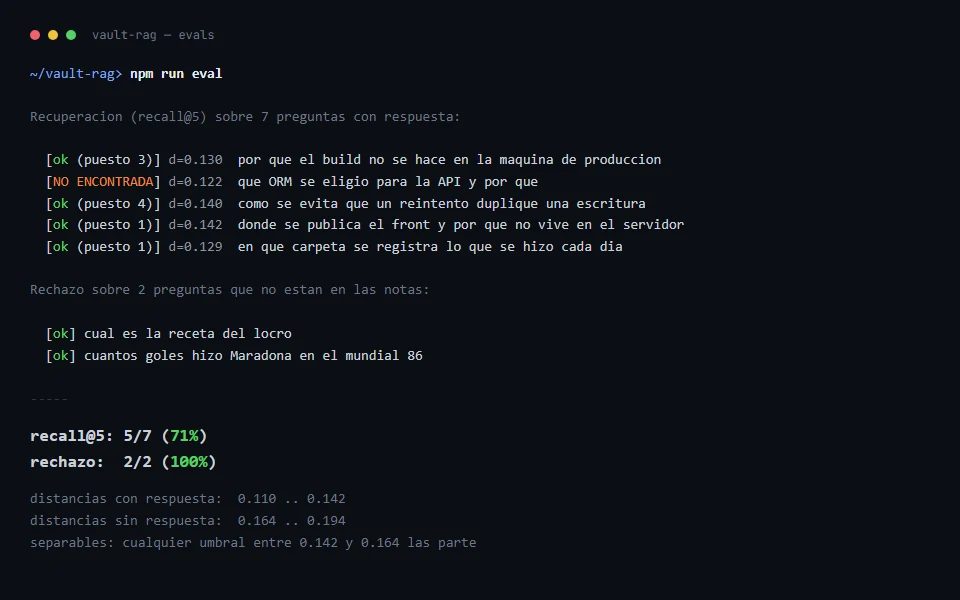
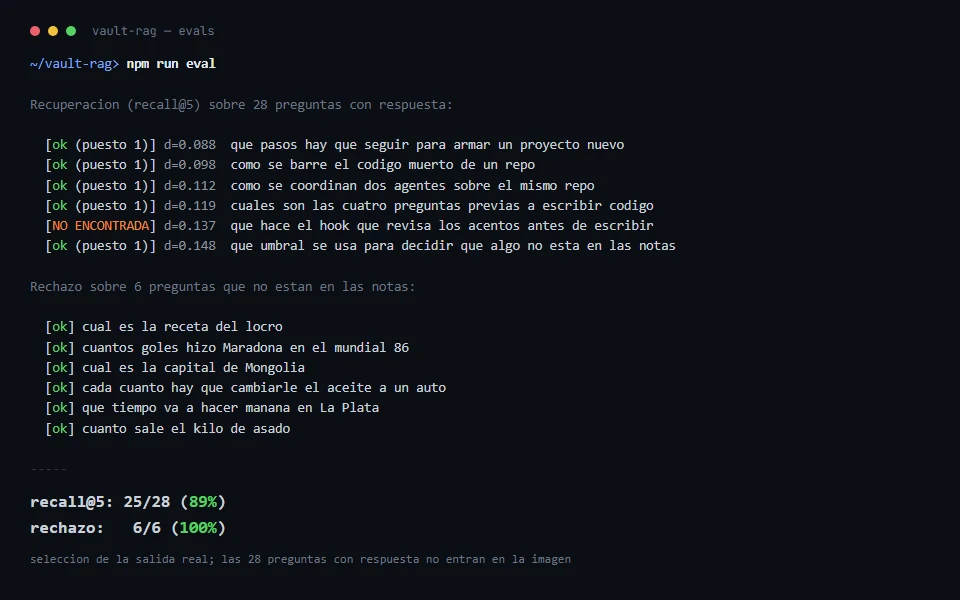
vault-rag: los numeros de la tarjeta pasan a 89% sobre 34 preguntas
El 71% que decia era sobre siete preguntas. Con el set en 34, y despues de
bajarle el peso al registro diario, la recuperacion quedo en 89% y el rechazo en
100%. Los dos numeros viejos no se comparan con los nuevos porque cambio la vara,
y por eso la tarjeta ya no cuenta el salto: cuenta donde esta parado hoy.

La caratula se rehizo con la salida de esa corrida, y aclara que es una seleccion
porque las 28 preguntas con respuesta no entran en la imagen.

diff --git a/src/content/projects.en.ts b/src/content/projects.en.ts
@@ -153,7 +153,7 @@ export const projectsText: Record<ProjectName, ProjectText> = {
       "Incremental indexing of 340 notes into 5338 chunks: a note that did not change is not processed again.",
       "Hybrid search: by meaning and by exact words, fused by rank.",
       "Agent with a single search tool, no framework: it can search, read what came back and search again with different words.",
-      "Automated measurement of accuracy: recall went from 29% to 71% once each chunk was indexed together with the title of its note, and the rejection of unanswerable questions from 0% to 100% with a threshold that was measured instead of guessed.",
+      "Automated measurement of accuracy, today at 89% retrieval and 100% rejection over 34 questions. Both jumps came from measuring rather than guessing: indexing each chunk together with the title of its note, and giving less weight to the daily log notes, which are 41% of the vault and used to win on sheer volume.",
     ],
     how: [
       "Vectors are computed on the machine itself with a multilingual model: indexing costs nothing, so trying a change and measuring it is free.",

diff --git a/src/content/projects.ts b/src/content/projects.ts
@@ -231,7 +231,7 @@ export const projects = [
       "Indexación incremental de 340 notas en 5338 pedazos: una nota que no cambió no se vuelve a procesar.",
       "Búsqueda híbrida: por significado y por palabras exactas, fusionadas por posición.",
       "Agente con una herramienta de búsqueda, sin framework: puede buscar, leer lo que trajo y volver a buscar con otras palabras.",
-      "Evaluación automática del acierto: el recall pasó de 29% a 71% al indexar cada pedazo junto con el título de su nota, y el rechazo de preguntas sin respuesta de 0% a 100% con un umbral medido en vez de estimado.",
+      "Evaluación automática del acierto, hoy en 89% de recuperación y 100% de rechazo sobre 34 preguntas. Los dos saltos salieron de medir, no de intuir: indexar cada pedazo junto al título de su nota, y bajarle el peso al registro diario, que es el 41% de las notas y ganaba por volumen.",
     ],
     how: [
       "Los vectores se calculan en la propia máquina con un modelo multilingüe: indexar no cuesta nada, así que probar un cambio y medirlo es gratis.",
